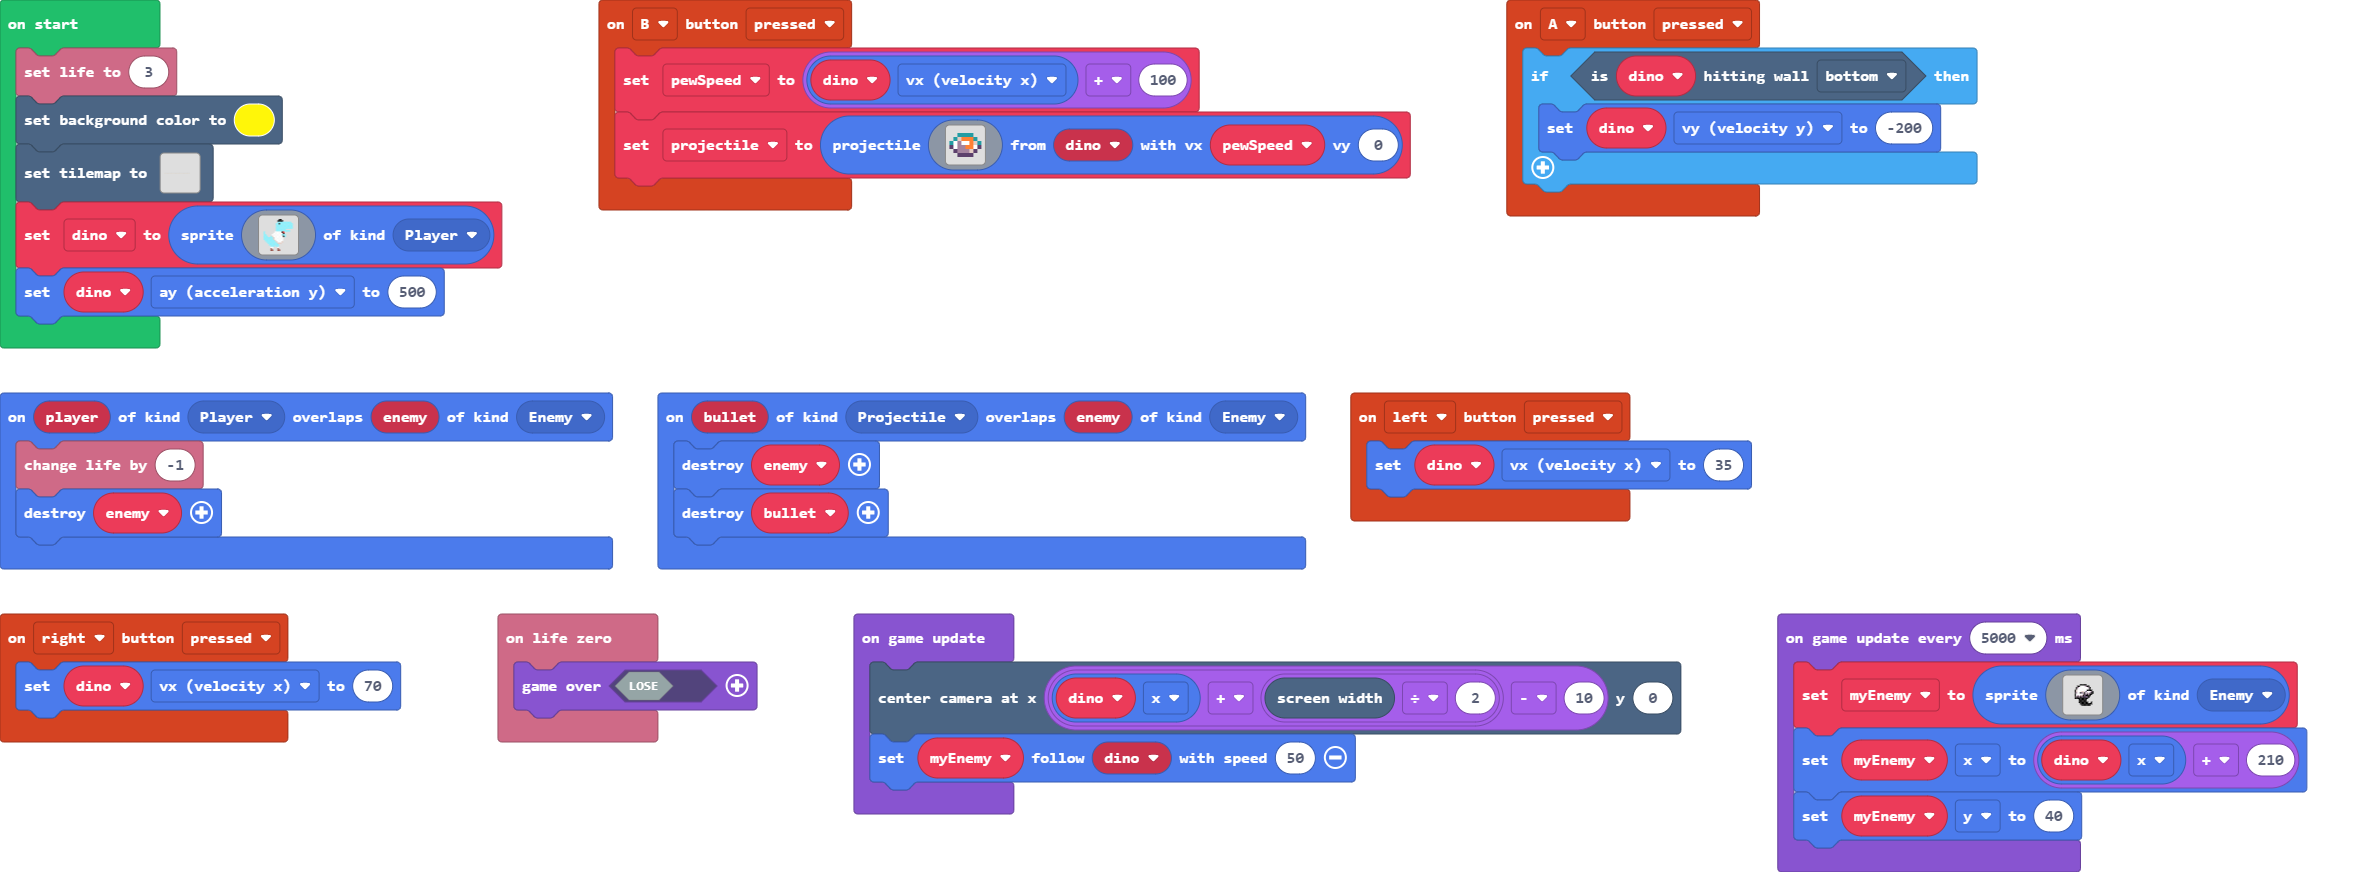
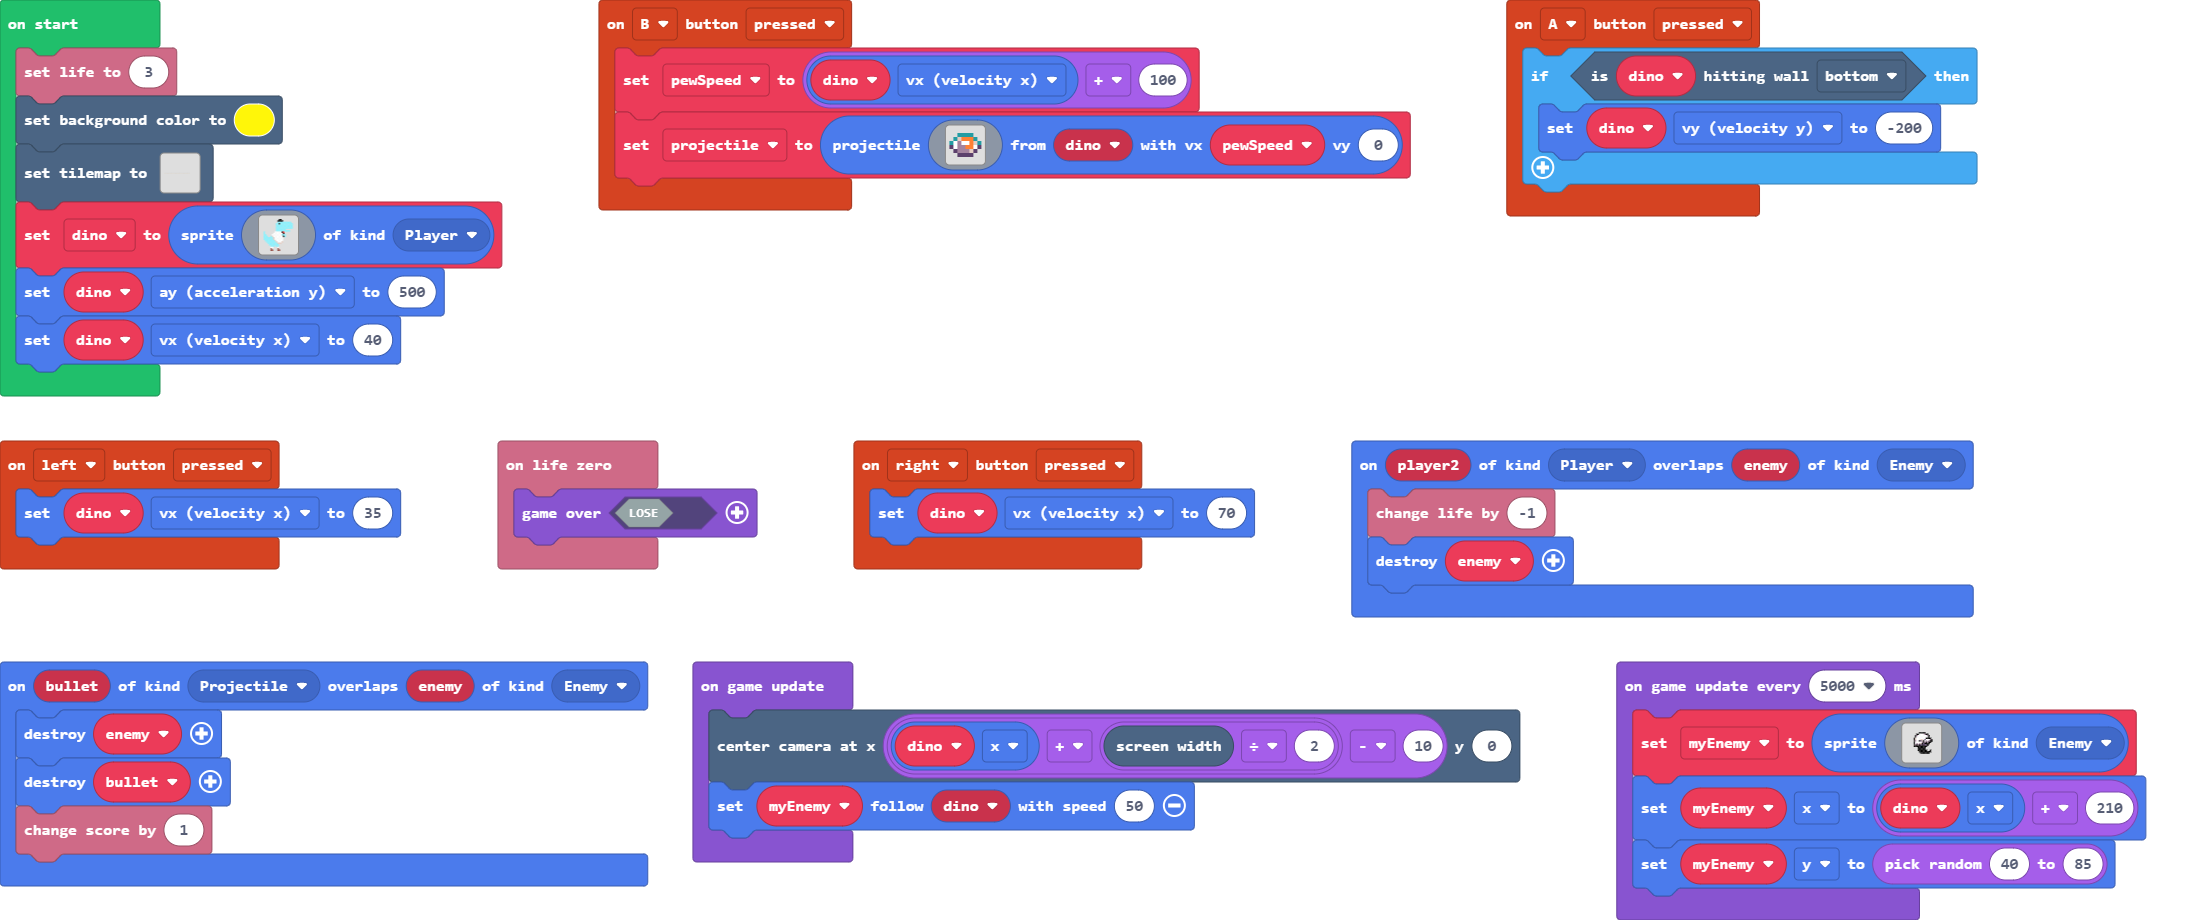
Update pxt.json, main.blocks, main.ts

diff --git a/main.ts b/main.ts
@@ -1,5 +1,10 @@
+sprites.onOverlap(SpriteKind.Projectile, SpriteKind.Enemy, function (bullet, enemy) {
+    enemy.destroy()
+    bullet.destroy()
+    info.changeScoreBy(1)
+})
 controller.B.onEvent(ControllerButtonEvent.Pressed, function () {
-    let pewSpeed = dino.vx + 100
+    pewSpeed = dino.vx + 100
     projectile = sprites.createProjectileFromSprite(img`
         . . 6 6 6 6 . . 
         . 6 d 4 4 4 6 . 
@@ -20,27 +25,20 @@ controller.left.onEvent(ControllerButtonEvent.Pressed, function () {
 controller.right.onEvent(ControllerButtonEvent.Pressed, function () {
     dino.vx = 70
 })
-
+info.onLifeZero(function () {
+    game.over(false)
+})
 sprites.onOverlap(SpriteKind.Player, SpriteKind.Enemy, function (player2, enemy) {
     info.changeLifeBy(-1)
     enemy.destroy()
 })
-
-sprites.onOverlap(SpriteKind.Projectile, SpriteKind.Enemy, function (bullet, enemy) {
-    enemy.destroy()
-    bullet.destroy()
-})
-
-info.onLifeZero(function () {
-    game.over(false)
-})
 let myEnemy: Sprite = null
 let projectile: Sprite = null
+let pewSpeed = 0
+let dino: Sprite = null
 info.setLife(3)
 scene.setBackgroundColor(5)
 tiles.setTilemap(tilemap`level_0`)
-let dino: Sprite = null
-
 dino = sprites.create(img`
     ...........ff........
     ..........ffff.......
@@ -67,8 +65,8 @@ dino = sprites.create(img`
     .....ee...ee.........
     `, SpriteKind.Player)
 dino.ay = 500
+dino.vx = 40
 game.onUpdate(function () {
-    dino.vx = 70
     scene.centerCameraAt(dino.x + scene.screenWidth() / 2 - 10, 0)
     myEnemy.follow(dino, 50)
 })
@@ -100,5 +98,5 @@ game.onUpdateInterval(5000, function () {
         ........................
         `, SpriteKind.Enemy)
     myEnemy.x = dino.x + 210
-    myEnemy.y = randint(40,85)
+    myEnemy.y = randint(40, 85)
 })
